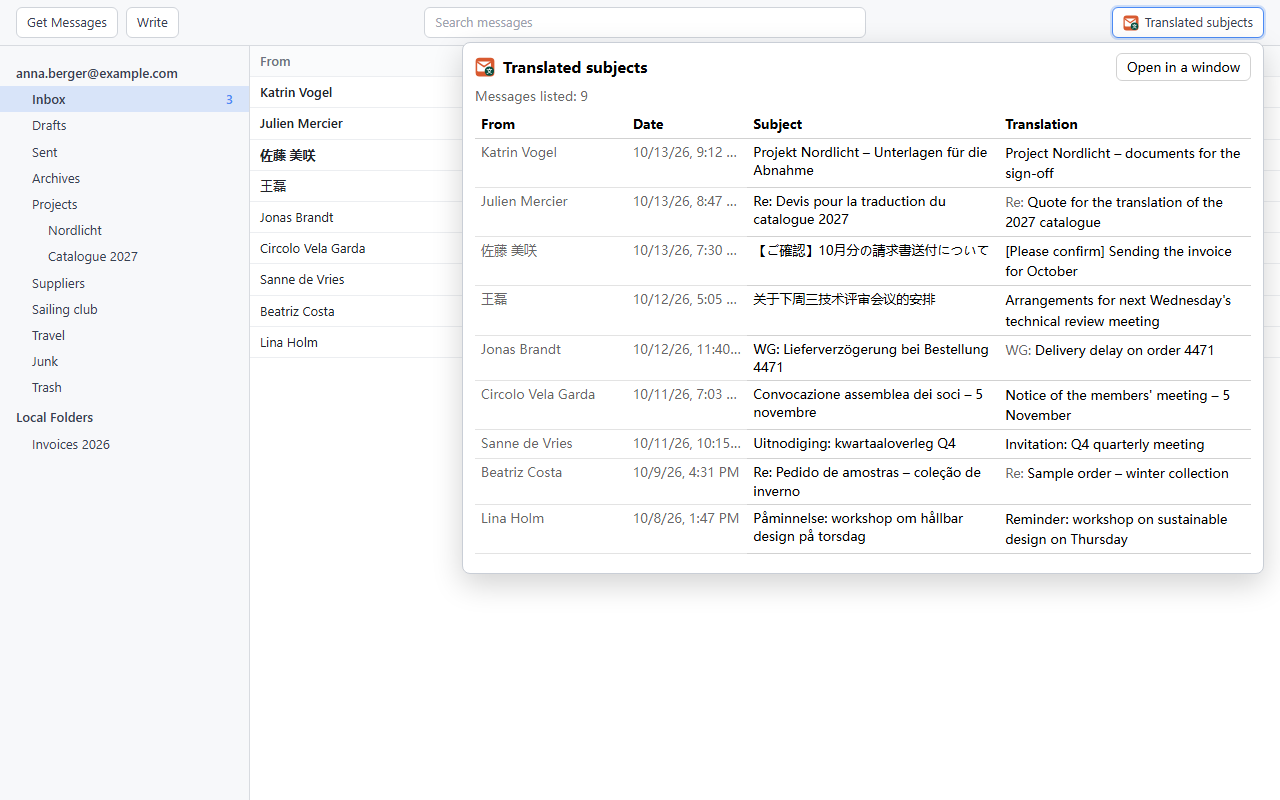
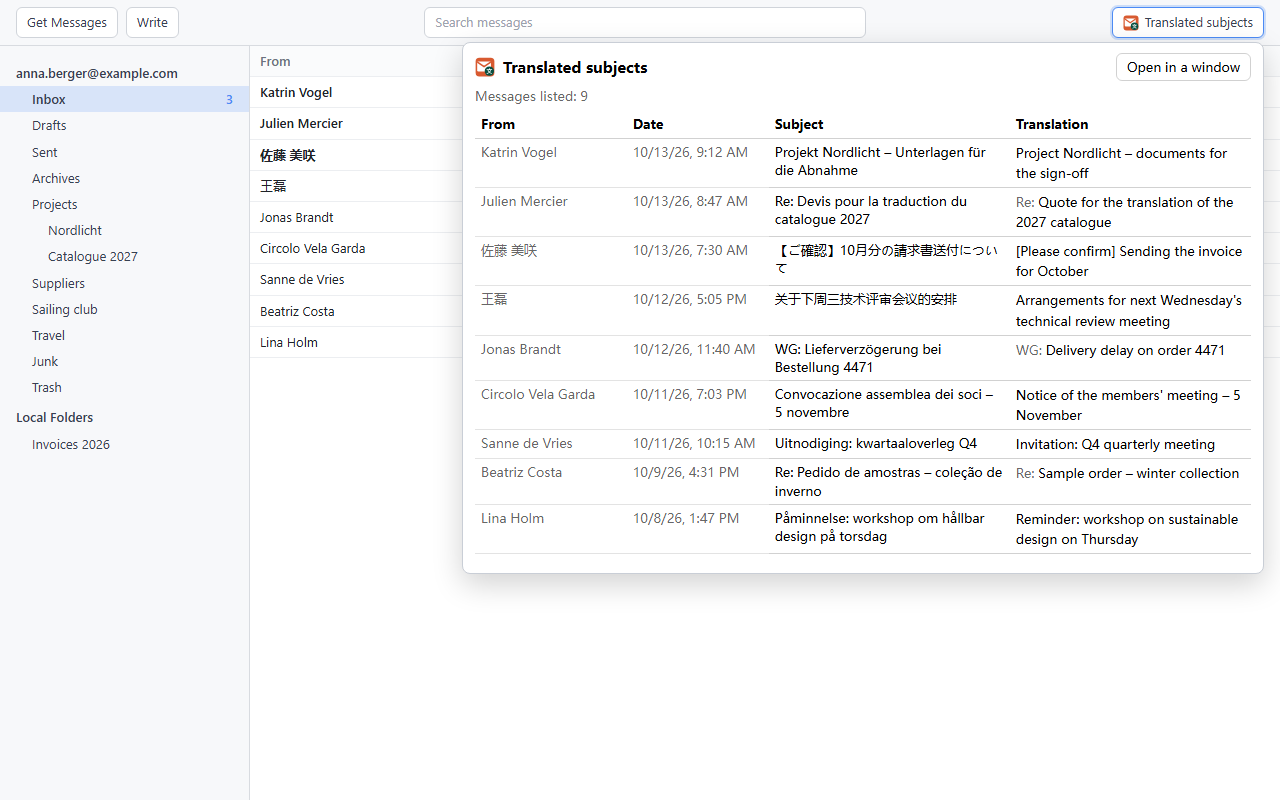
Page of translated subjects: a date column as wide as a date with time

Changed region(s): [[0.5625, 0.125, 0.9688, 0.6875]]

diff --git a/static/subjects.css b/static/subjects.css
@@ -76,7 +76,7 @@ th.from {
 }
 
 th.date {
-  width: 14%;
+  width: 10em;
 }
 
 td.from,

diff --git a/CHANGELOG.md b/CHANGELOG.md
@@ -10,6 +10,7 @@ All notable changes to this project are documented in this file, with the date o
 - A Markdown link whose address names a user name or password before the host, such as `https://bank.example@evil.example/`, stays text. Such addresses show one host in the text and lead to another.
 - After the extension was updated or reloaded, translating in a message pane that was already open stayed in progress for good. Each paragraph now shows the error at once; opening the message again translates it.
 - The first AI translation no longer logs a blocked use of the `Function` constructor in the console of the background page. The AI SDK checks its data with the zod library, which now runs without generating code.
+- On the page of translated subjects in a window 800 pixels wide, an English date with time such as "10/12/26, 11:40 AM" was cut off. The date column is now as wide as such a date.
 - Experimental build: the column "Translated subject" keeps the translations of the 2000 subjects listed last, in the background page and in Thunderbird. Before, both kept every subject ever listed until Thunderbird was closed. A subject that appears again is filled from the cache.
 - Experimental build: when reading the message list failed, Thunderbird kept the list open; it is now closed in that case too.
 
